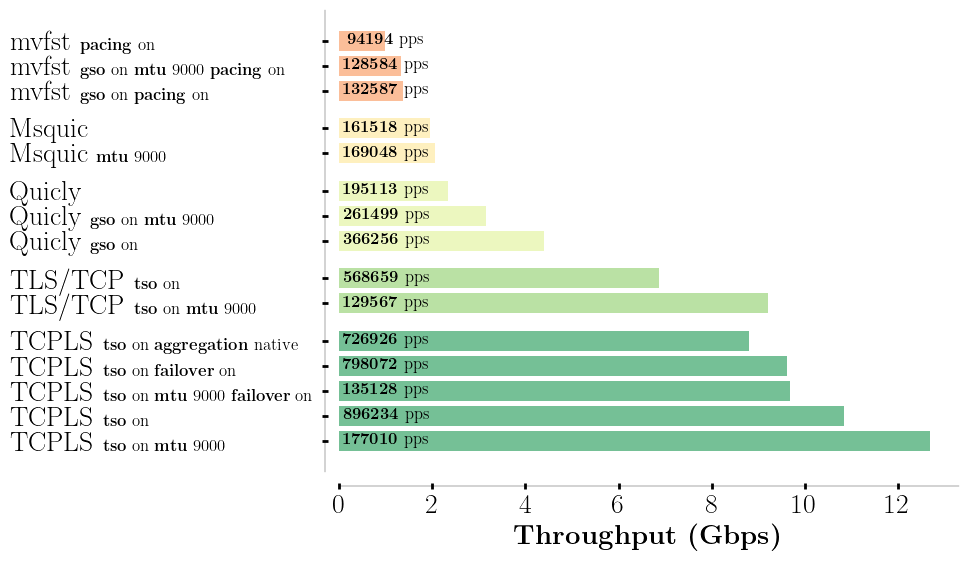
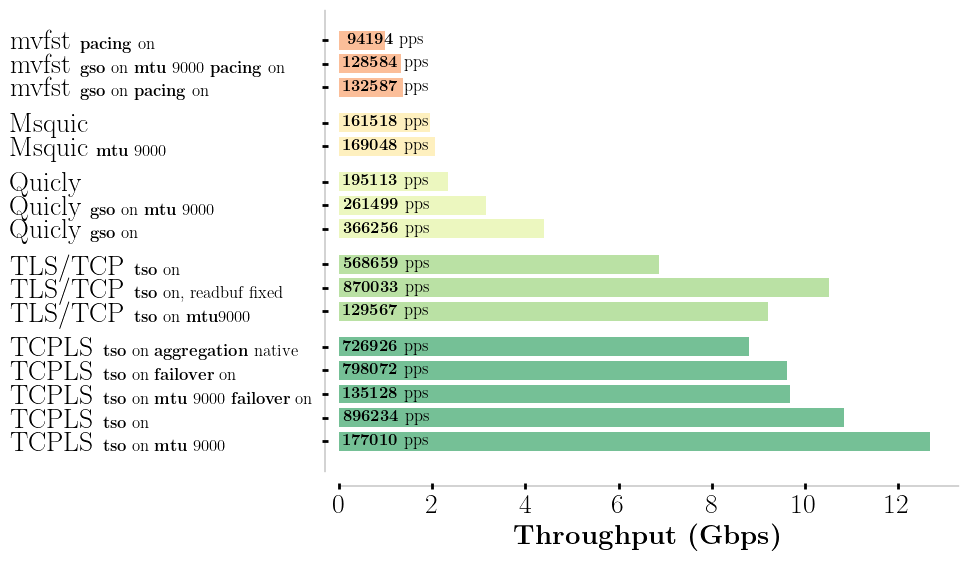
up figure

Changed region(s): [[0.0, 0.0909, 0.8669, 0.8182], [0.0, 0.0606, 0.2786, 0.1818]]

diff --git a/pretty_plotify/plot_perf.py b/pretty_plotify/plot_perf.py
@@ -60,7 +60,7 @@ def main():
     #bar_height_pps_sorted = [(x[0], mapping[x[0]]) for x in bar_height_bw]
     #bar_height_pps = bar_height_pps_sorted
     y_pos = np.arange(len(bar_height_bw))
-    y_pos = [ 0,  1,  2,  3,  4,  5.5,  6.5 , 8,  9, 10, 11.5, 12.5 ,14 , 15, 16]
+    y_pos = [ 0,  1,  2,  3,  4,  5.5,  6.5 , 7.5, 9,  10, 11, 12.5, 13.5 ,15 , 16, 17]
     #data plotting
     fig, ax = plt.subplots(figsize=(8,6))
 
@@ -73,7 +73,7 @@ def main():
 #             cmap[1],cmap[5],cmap[0]]
 
     colors = [cmap[5],cmap[5], cmap[5],cmap[5],cmap[5],
-          cmap[4], cmap[4],
+          cmap[4], cmap[4], cmap[4],
           cmap[3],cmap[3],cmap[3],
           cmap[2],cmap[2],
           cmap[1],cmap[1],cmap[1]]
